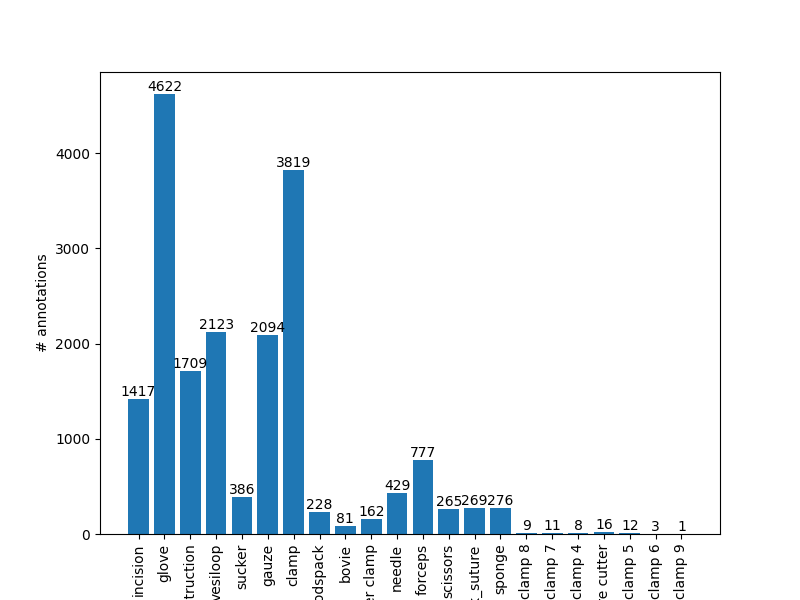
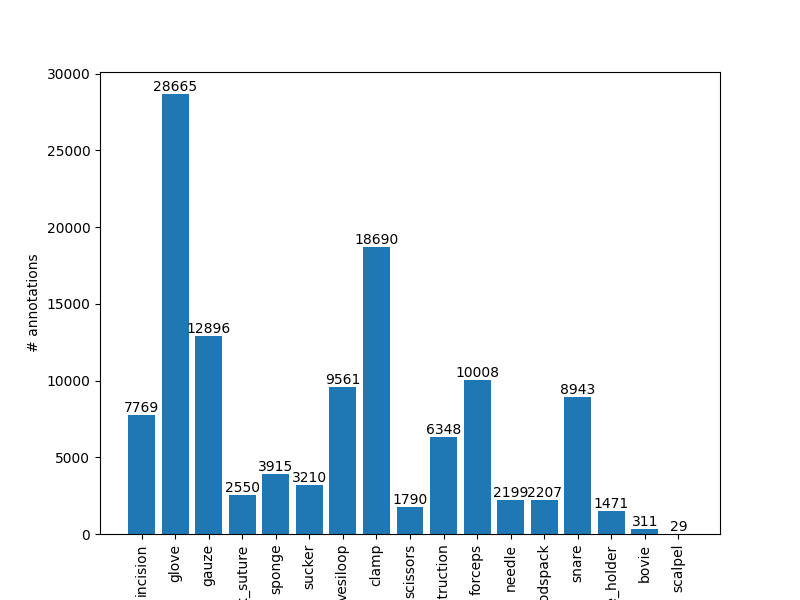
Modified: label replace code

diff --git a/replace_label.py b/replace_label.py
@@ -3,7 +3,7 @@ import json
 import glob
 
 # Directory containing JSON files
-directory_path = '/mnt/new/dataset'
+directory_path = '/mnt/data/dataset'
 
 # Function to update the label in a single annotation file
 def update_label(annotation):
@@ -20,6 +20,22 @@ def update_label(annotation):
             shape['label'] = 'black_suture'
         if shape['label'] == 'needle holder':
             shape['label'] = 'needle_holder'
+        if shape['label'] == 'clamp 4':
+            shape['label'] = 'clamp'
+        if shape['label'] == 'clamp 7':
+            shape['label'] = 'clamp'
+        if shape['label'] == 'clamp 5':
+            shape['label'] = 'clamp'
+        if shape['label'] == 'clamp 6':
+            shape['label'] = 'clamp'
+        if shape['label'] == 'clamp 9':
+            shape['label'] = 'clamp'
+        if shape['label'] == 'clamp 8':
+            shape['label'] = 'clamp'
+        if shape['label'] == 'wire cutter clamp':
+            shape['label'] = 'clamp'
+        if shape['label'] == 'wire cutter':
+            shape['label'] = 'clamp'
     return annotation
 
 # Process all JSON files in the directory

diff --git a/annote_data_vis.py b/annote_data_vis.py
@@ -54,7 +54,7 @@ def image_statistics_generator(base_dir, needle_dest_path, save_needle_images):
 
     # Add text annotations to the bars
     ax.bar_label(ax.containers[-1], label_type='edge')
-
+    print(">>>>>>>>>>>>>>", categories)
     ax.set_xlabel('Category')
     ax.set_ylabel('# annotations')
     ax.xaxis.set_ticks(categories)
